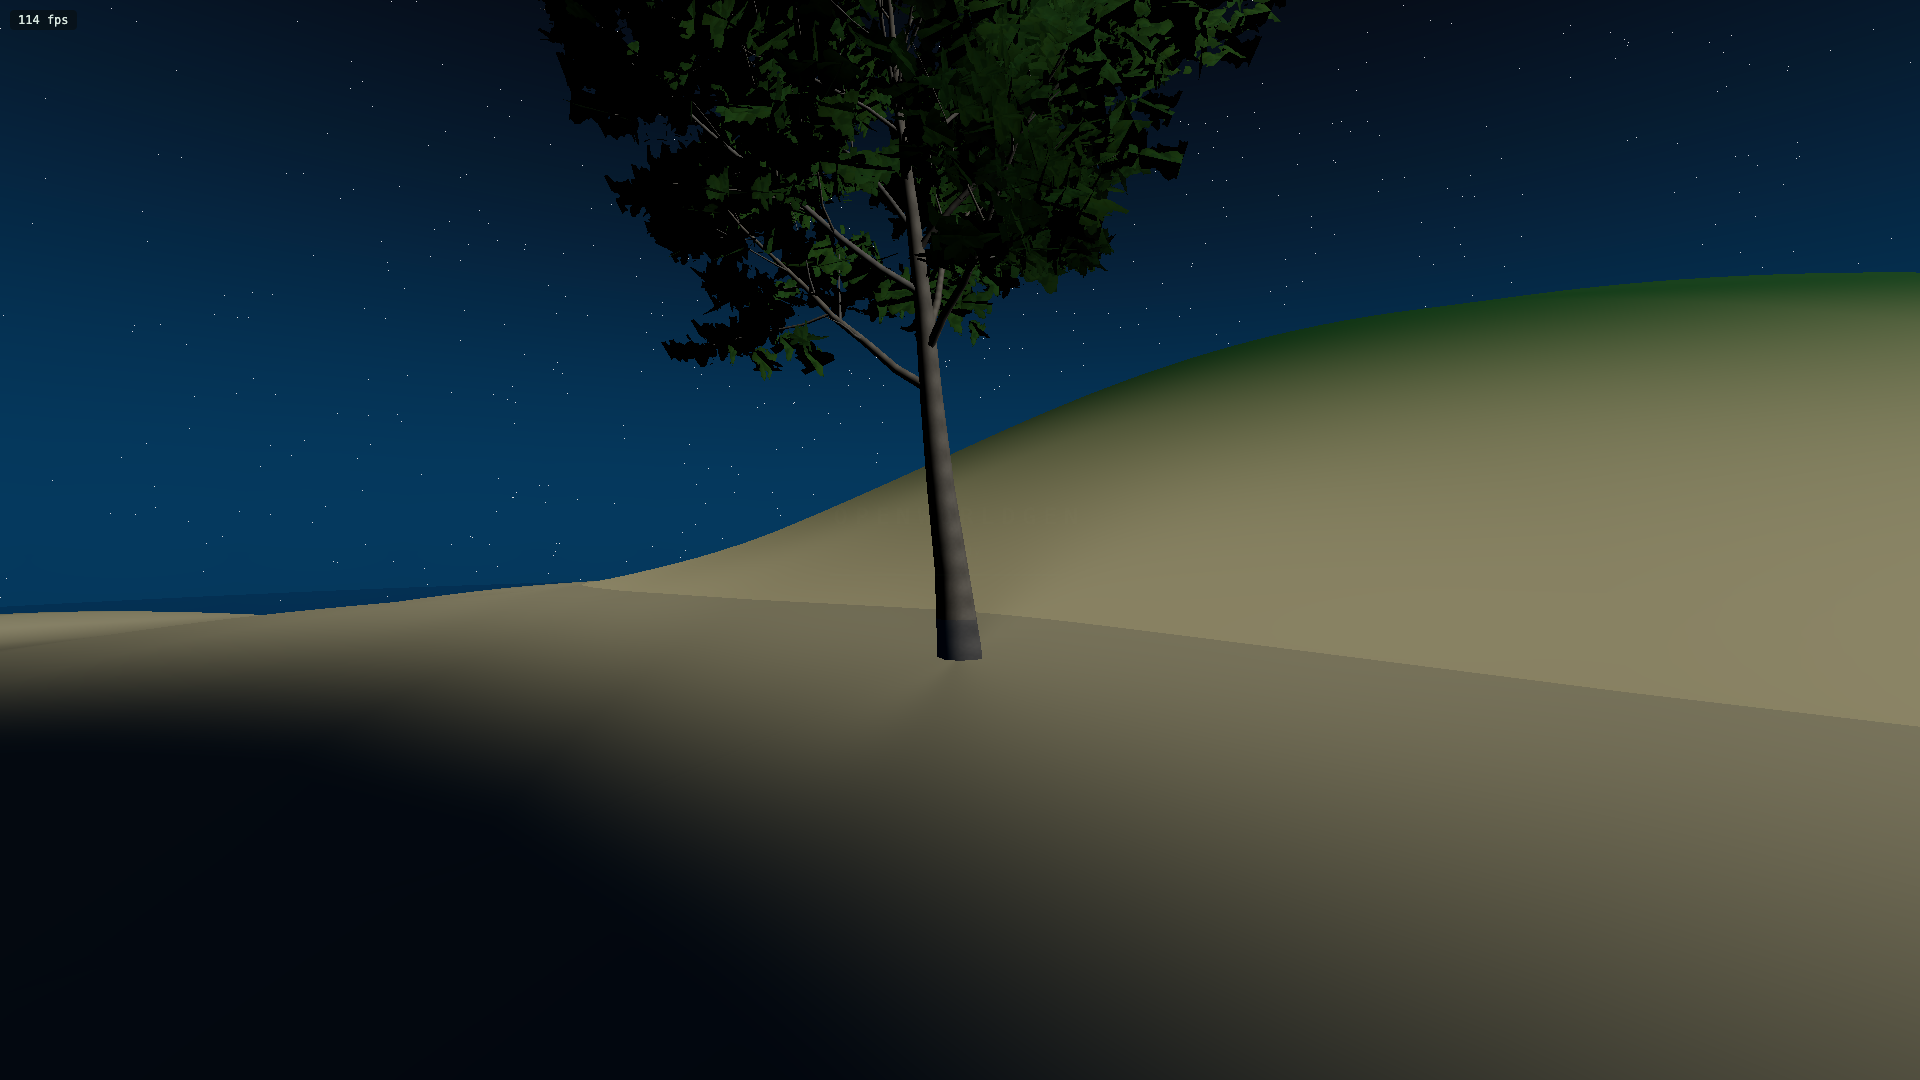
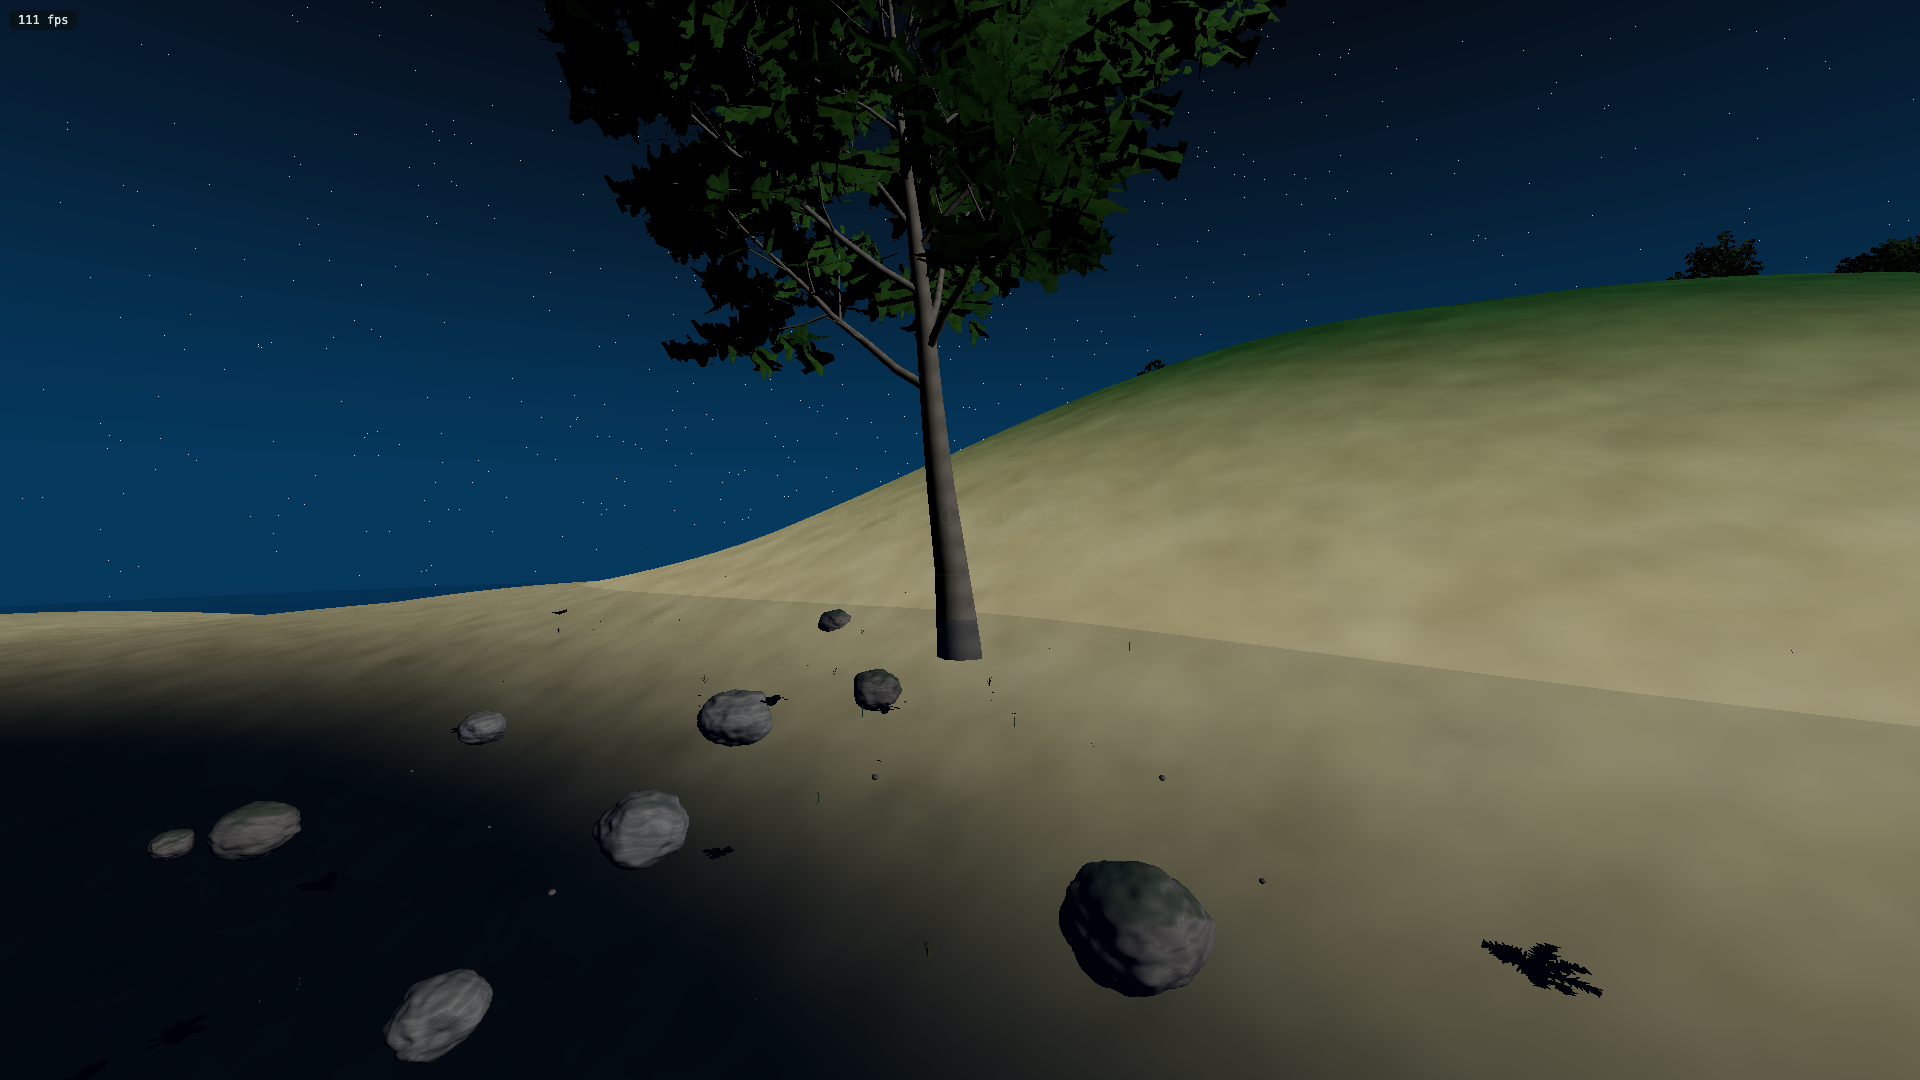
feat: implement tangent-space procedural normal mapping, color noise, and dense beach stone/grass scattering details

diff --git a/src/debug/PlanetScene.ts b/src/debug/PlanetScene.ts
@@ -259,7 +259,8 @@ export async function buildPlanetScene(ctx: WorldContext): Promise<void> {
       freq: 0.0018,
       biomes: ['lush'],
       allowedTrees: [VegClass.Beech, VegClass.Birch, VegClass.Oak],
-      allowedFoliage: [VegClass.Fern, VegClass.FlowerUmbel, VegClass.FlowerDaisy],
+      allowedFoliage: [VegClass.DryGrassTuft, VegClass.Fern, VegClass.FlowerUmbel, VegClass.FlowerDaisy],
+      allowedRocks: [VegClass.Boulder, VegClass.Log, VegClass.StoneL, VegClass.StoneM, VegClass.StoneS],
       colors: {
         oceanBed: new THREE.Color(0x0a120d),
         beach: new THREE.Color(0xdad0a5),
@@ -279,6 +280,7 @@ export async function buildPlanetScene(ctx: WorldContext): Promise<void> {
       biomes: ['desert'],
       allowedTrees: [VegClass.Joshua, VegClass.Acacia, VegClass.Mesquite],
       allowedFoliage: [VegClass.DryGrassTuft, VegClass.Creosote],
+      allowedRocks: [VegClass.Boulder, VegClass.Slab, VegClass.StoneL, VegClass.StoneM],
       colors: {
         oceanBed: new THREE.Color(0x2d170b),
         beach: new THREE.Color(0xe6aa68),
@@ -298,6 +300,7 @@ export async function buildPlanetScene(ctx: WorldContext): Promise<void> {
       biomes: ['frozen'],
       allowedTrees: [VegClass.Spruce, VegClass.Pine, VegClass.Willow],
       allowedFoliage: [VegClass.Fern, VegClass.SwampReed],
+      allowedRocks: [VegClass.Boulder, VegClass.StoneL, VegClass.StoneS],
       colors: {
         oceanBed: new THREE.Color(0x09141f),
         beach: new THREE.Color(0x99cbda),
@@ -352,19 +355,31 @@ export async function buildPlanetScene(ctx: WorldContext): Promise<void> {
     const height = positionLocal.length().sub(pConfig.radius);
     const radialDir = positionLocal.normalize();
     
-    // 1. Procedural normal mapping/bumpiness (adds craggy rock texture details)
+    // 1. Procedural normal mapping in tangent space (micro ripples + cracks)
     const worldPos = positionLocal.add(vec3(pConfig.center.x, pConfig.center.y, pConfig.center.z));
-    const bumpNoise = fbm3(worldPos.mul(0.04), 3); // High frequency noise
-    const perturbedNormal = normalLocal.add(bumpNoise.mul(0.12)).normalize();
-    const viewSpaceNormal = transformNormalToView(perturbedNormal);
+    
+    // Evaluate noise along tangent space dimensions using offset world coordinates
+    const nX = fbm3(worldPos.mul(0.75), 3);
+    const nY = fbm3(worldPos.add(vec3(100.0, 100.0, 100.0)).mul(0.75), 3);
+    const tangentNormal = vec3(nX.mul(0.35), nY.mul(0.35), 1.0).normalize();
 
-    const slope = float(1.0).sub(perturbedNormal.dot(radialDir)).clamp(0, 1);
+    // The slope is calculated using the smooth vertex normal (macro topography)
+    const slope = float(1.0).sub(normalLocal.dot(radialDir)).clamp(0, 1);
 
-    // Color definitions in TSL
+    // Color definitions in TSL with procedural albedo detail variations
+    const albedoNoise = fbm3(worldPos.mul(0.6), 3).clamp(0, 1); // repeats every ~1.6 meters for soil pattern variation
+
     const oceanBedColor = vec3(pConfig.colors.oceanBed.r, pConfig.colors.oceanBed.g, pConfig.colors.oceanBed.b);
-    const beachColor = vec3(pConfig.colors.beach.r, pConfig.colors.beach.g, pConfig.colors.beach.b);
-    const grassColor = vec3(pConfig.colors.grass.r, pConfig.colors.grass.g, pConfig.colors.grass.b);
-    const rockColor = vec3(pConfig.colors.rock.r, pConfig.colors.rock.g, pConfig.colors.rock.b);
+    
+    const beachBase = vec3(pConfig.colors.beach.r, pConfig.colors.beach.g, pConfig.colors.beach.b);
+    const beachColor = mix(beachBase, beachBase.mul(vec3(0.85, 0.82, 0.72)), albedoNoise); // darker/organic sand patches
+
+    const grassBase = vec3(pConfig.colors.grass.r, pConfig.colors.grass.g, pConfig.colors.grass.b);
+    const grassColor = mix(grassBase, grassBase.mul(vec3(0.55, 0.52, 0.32)), albedoNoise); // dark mossy/soil patches
+
+    const rockBase = vec3(pConfig.colors.rock.r, pConfig.colors.rock.g, pConfig.colors.rock.b);
+    const rockColor = mix(rockBase, rockBase.mul(vec3(1.25, 1.25, 1.30)), albedoNoise); // light mineral vein bands
+
     const snowColor = vec3(pConfig.colors.snow.r, pConfig.colors.snow.g, pConfig.colors.snow.b);
 
     // 2. Pixel-perfect color blending
@@ -386,7 +401,7 @@ export async function buildPlanetScene(ctx: WorldContext): Promise<void> {
 
     const planetMat = new MeshStandardNodeMaterial({
       colorNode: terrainAlbedo,
-      normalNode: viewSpaceNormal,
+      normalNode: tangentNormal,
       roughness: 0.88,
       metalness: 0.04
     });
@@ -456,10 +471,10 @@ export async function buildPlanetScene(ctx: WorldContext): Promise<void> {
     scene.add(waterMesh);
 
     // E. Procedural Asset Placement
-    const assetGroup = createPlanetAssetGroup(pConfig.center, 3000);
+    const assetGroup = createPlanetAssetGroup(pConfig.center, 45000);
     const rng = seed.rng(`planet-scatter-${pIdx}`);
 
-    const sampleCount = 1200;
+    const sampleCount = 35000;
     const instMatrix = new THREE.Matrix4();
     const instPos = new THREE.Vector3();
     const instQuat = new THREE.Quaternion();
@@ -482,13 +497,13 @@ export async function buildPlanetScene(ctx: WorldContext): Promise<void> {
         (rx * pConfig.radius + pConfig.center.x) * pConfig.freq,
         (ry * pConfig.radius + pConfig.center.y) * pConfig.freq,
         (rz * pConfig.radius + pConfig.center.z) * pConfig.freq,
-        4
+        2
       );
 
       const heightVal = ptNoise * pConfig.scale;
 
-      // Restrict vegetation placement to dry land areas
-      if (heightVal > pConfig.scale * 0.14 && heightVal < pConfig.scale * 0.55) {
+      // Restrict vegetation/rock placement to dry land areas and beaches
+      if (heightVal > -2.0 && heightVal < pConfig.scale * 0.60) {
         instPos.copy(sNormDir).multiplyScalar(pConfig.radius + heightVal);
 
         instQuat.setFromUnitVectors(alignY, sNormDir);
@@ -496,25 +511,45 @@ export async function buildPlanetScene(ctx: WorldContext): Promise<void> {
         yawQ.setFromAxisAngle(sNormDir, rng.float() * Math.PI * 2);
         instQuat.premultiply(yawQ);
 
-        const sc = 0.55 + rng.float() * 0.45;
-        instScale.set(sc, sc, sc);
+        const roll = rng.float();
+        let cls = -1;
+        let variant = Math.floor(rng.float() * 4);
+        let sc = 1.0;
 
-        instMatrix.compose(instPos, instQuat, instScale);
+        if (roll < 0.25 && pConfig.allowedTrees.length > 0) {
+          // 25% Trees (spawn only on dry soil)
+          if (heightVal > pConfig.scale * 0.14 && heightVal < pConfig.scale * 0.55) {
+            cls = pConfig.allowedTrees[Math.floor(rng.float() * pConfig.allowedTrees.length)]!;
+            sc = 0.55 + rng.float() * 0.45;
+          }
+        } else if (roll < 0.80 && pConfig.allowedFoliage.length > 0) {
+          // 55% Grass / Foliage (spawn only above sandy beach level)
+          if (heightVal > pConfig.scale * 0.05 && heightVal < pConfig.scale * 0.55) {
+            cls = pConfig.allowedFoliage[Math.floor(rng.float() * pConfig.allowedFoliage.length)]!;
+            sc = 0.50 + rng.float() * 0.40;
+          }
+        } else if (pConfig.allowedRocks && pConfig.allowedRocks.length > 0) {
+          // 20% Rocks / Stones / Logs (can spawn on sandy beach and dry land)
+          cls = pConfig.allowedRocks[Math.floor(rng.float() * pConfig.allowedRocks.length)]!;
+          // Adjust stone scaling so pebbles/cobbles look realistic on the ground
+          if (cls === VegClass.StoneS) {
+            sc = 0.12 + rng.float() * 0.22;
+          } else if (cls === VegClass.StoneM) {
+            sc = 0.30 + rng.float() * 0.30;
+          } else {
+            sc = 0.40 + rng.float() * 0.60;
+          }
+        }
 
-        const isTree = rng.float() < 0.65;
-        if (isTree && pConfig.allowedTrees.length > 0) {
-          const cls = pConfig.allowedTrees[Math.floor(rng.float() * pConfig.allowedTrees.length)]!;
-          const variant = Math.floor(rng.float() * 4);
+        if (cls !== -1) {
+          instScale.set(sc, sc, sc);
+          instMatrix.compose(instPos, instQuat, instScale);
           assetGroup.addInstance(cls, variant, instMatrix);
-        } else if (pConfig.allowedFoliage.length > 0) {
-          const cls = pConfig.allowedFoliage[Math.floor(rng.float() * pConfig.allowedFoliage.length)]!;
-          const variant = Math.floor(rng.float() * 4);
-          assetGroup.addInstance(cls, variant, instMatrix);
+        }
       }
     }
-  }
 
-  // Place a guaranteed specimen tree at the North Pole of the Lush Planet for close-up surface screenshots
+    // Place a guaranteed specimen tree at the North Pole of the Lush Planet for close-up surface screenshots
     if (pIdx === 0) {
       const poleDir = new THREE.Vector3(0, 1, 0);
       const poleNoise = noiseGen.fbm(0, pConfig.freq * pConfig.radius, 0, 4);
@@ -526,6 +561,60 @@ export async function buildPlanetScene(ctx: WorldContext): Promise<void> {
       const poleMatrix = new THREE.Matrix4().compose(polePos, poleQuat, poleScale);
 
       assetGroup.addInstance(VegClass.Beech, 0, poleMatrix);
+
+      // Local detail scattering around the North Pole landing zone (150 dense grass tufts, ferns, and pebbles)
+      const localRng = seed.rng(`lush-landing-zone`);
+      const localCount = 150;
+      
+      for (let i = 0; i < localCount; i++) {
+        const angle = localRng.float() * Math.PI * 2;
+        const rad = 2.0 + localRng.float() * 28.0; // 2m to 30m radius around the tree
+        
+        const rx = Math.sin(angle) * rad;
+        const rz = Math.cos(angle) * rad;
+        
+        // Project onto sphere surface near the pole
+        const sDir = new THREE.Vector3(rx, pConfig.radius, rz).normalize();
+        
+        const ptNoise = noiseGen.fbm(
+          (sDir.x * pConfig.radius + pConfig.center.x) * pConfig.freq,
+          (sDir.y * pConfig.radius + pConfig.center.y) * pConfig.freq,
+          (sDir.z * pConfig.radius + pConfig.center.z) * pConfig.freq,
+          2
+        );
+        const heightVal = ptNoise * pConfig.scale;
+        
+        const localPos = sDir.clone().multiplyScalar(pConfig.radius + heightVal);
+        const localQuat = new THREE.Quaternion().setFromUnitVectors(alignY, sDir);
+        const yawQ = new THREE.Quaternion().setFromAxisAngle(sDir, localRng.float() * Math.PI * 2);
+        localQuat.premultiply(yawQ);
+        
+        // 60% grass/foliage, 40% stones/pebbles
+        const isFoliage = localRng.float() < 0.60;
+        let cls = -1;
+        let sc = 1.0;
+        
+        if (isFoliage) {
+          const choices = [VegClass.DryGrassTuft, VegClass.Fern, VegClass.FlowerDaisy, VegClass.FlowerUmbel];
+          cls = choices[Math.floor(localRng.float() * choices.length)]!;
+          sc = 0.45 + localRng.float() * 0.40;
+        } else {
+          const choices = [VegClass.StoneS, VegClass.StoneM, VegClass.Boulder];
+          cls = choices[Math.floor(localRng.float() * choices.length)]!;
+          if (cls === VegClass.StoneS) {
+            sc = 0.12 + localRng.float() * 0.22;
+          } else if (cls === VegClass.StoneM) {
+            sc = 0.28 + localRng.float() * 0.28;
+          } else {
+            sc = 0.40 + localRng.float() * 0.50;
+          }
+        }
+        
+        const localScale = new THREE.Vector3(sc, sc, sc);
+        const localMatrix = new THREE.Matrix4().compose(localPos, localQuat, localScale);
+        assetGroup.addInstance(cls, Math.floor(localRng.float() * 4), localMatrix);
+      }
+
       console.log(`[laas] Lush North Pole surface Y = ${(pConfig.radius + poleHeight).toFixed(2)}`);
     }
 